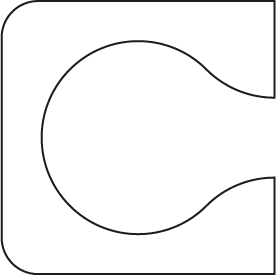
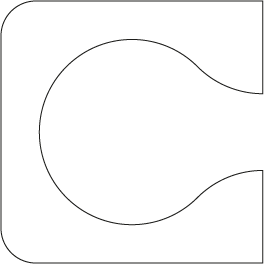
rota ok

diff --git a/pipes_superclean-before-class-rect/js/App.js b/pipes_superclean-before-class-rect/js/App.js
@@ -46,18 +46,23 @@ function setup() {
   }
   grid.drawGrid();
   //SET UP DOOR PIPE
-  pipe.push(new Pipe(width / 2, height / 2, cellS, cellS * pLevel.level1[0][3], p_02, pLevel.level1[0][4]));
-  pipe.push(new Pipe(width / 2, height / 2, cellS, cellS * pLevel.level1[1][3], p_02, pLevel.level1[1][4]));
-  pipe.push(new Pipe(width / 2, height / 2, cellS, cellS * pLevel.level1[2][3], p_01, pLevel.level1[2][4]));
-  pipe.push(new Pipe(width / 2, height / 2, cellS, cellS * pLevel.level1[3][3], p_03, pLevel.level1[3][4]));
+  pipe.push(new Pipe(width / 2, height / 2, cellS, cellS * pLevel.level1[0][3], p_02, pLevel.level1[0][4], pLevel.level1[0][5]));
+  pipe.push(new Pipe(width / 2, height / 2, cellS, cellS * pLevel.level1[1][3], p_02, pLevel.level1[1][4], pLevel.level1[1][5]));
+  pipe.push(new Pipe(width / 2, height / 2, cellS, cellS * pLevel.level1[2][3], p_01, pLevel.level1[2][4], pLevel.level1[2][5]));
+  pipe.push(new Pipe(width / 2, height / 2, cellS, cellS * pLevel.level1[3][3], p_03, pLevel.level1[3][4], pLevel.level1[3][5]));
 
   //push tarf into targ x y position
   // targ.push(grid.snap(pLevel.level1[0][0], pLevel.level1[0][1]));
-  targ.push(grid.snapSetUp(pLevel.level1[0][0], pLevel.level1[0][1]));
-  targ.push(grid.snapSetUp(pLevel.level1[1][0], pLevel.level1[1][1]));
-  targ.push(grid.snapSetUp(pLevel.level1[2][0], pLevel.level1[2][1]));
-  targ.push(grid.snapSetUp(pLevel.level1[3][0], pLevel.level1[3][1]));
-  
+  for(let i= 0; i<pipe.length; i++){
+    pipe[i].rotatePipe();
+    console.log( pipe[i].rotatePipe());
+    // bug define shape 2 in grid
+    if((pLevel.level1[i][2])%2 == 0 ){
+      console.log(pipe[i])
+    }
+    targ.push(grid.snapSetUp(pLevel.level1[i][0], pLevel.level1[i][1]));
+  }
+
   // SETUP RESTRICTION RECT SNAP
   // CHAQUE SHAPE DETECT SON OCCUPATION SUR LES RECTANGLES
   for (let i = 0; i < targ.length; i++) {

diff --git a/pipes_superclean-before-class-rect/js/pipe.js b/pipes_superclean-before-class-rect/js/pipe.js
@@ -4,20 +4,22 @@ let imageNumber = 1;
 let insideShape = false;
 
 class Pipe {
-  constructor(x, y, w, h, src, shape) {
+  constructor(x, y, w, h, src, shape, rot) {
     this.dragging = false; // Is the object being dragged?
     this.rollover = false; // Is the mouse over the ellipse?
     this.x = x;
     this.y = y;
     this.w = w;
     this.h = h;
-    this.shape= shape;
+    this.shape = shape;
 
     this.offsetX = 0;
     this.offsetY = 0;
     this.image;
     this.src = src;
 
+    //ROTATION PIPE
+    this.rot = rot;
     //SNAP
     this.px;
     this.py;
@@ -33,10 +35,25 @@ class Pipe {
       this.y = mouseY + this.offsetY;
     }
   }
+  rotatePipe() {
+    angleMode(DEGREES);
+    rotate(this.rot);
+    return this.rot;
+  }
   show(px, py, w, h) {
+    push();
+    translate(px, py);
+    angleMode(DEGREES);
+    rotate(this.rot);
+    // rect(px, py,50,50)
+
+   
     imageMode(CENTER);
+ 
+
     // this.image = image(this.src, px, py, w, h);
-    this.image = image(this.src, px, py, w, h);
+    this.image = image(this.src, 0,0, w, h);
+    pop();
   }
 
   pressed(px, py, w, h) {
@@ -52,8 +69,8 @@ class Pipe {
       return insideShape;
     }
   }
-  drag(x,y) {
-    this.dragElement = grid.snap(x,y);
+  drag(x, y) {
+    this.dragElement = grid.snap(x, y);
     return this.dragElement
   }
   // clicked() {

diff --git a/pipes_superclean-before-class-rect/js/grid.js b/pipes_superclean-before-class-rect/js/grid.js
@@ -57,7 +57,7 @@ class Grid {
     let x = round((initX * totalW) / this.nCols);
     let y = round((initY * totalH) / this.nRows);
 
-    
+   
     // console.log(initX,initY)
     x = round((x - centerCell) / width * this.nCols) * this.cellSize + centerCell;
     y = round((y - centerCell) / height * this.nRows) * this.cellSize + centerCell;
